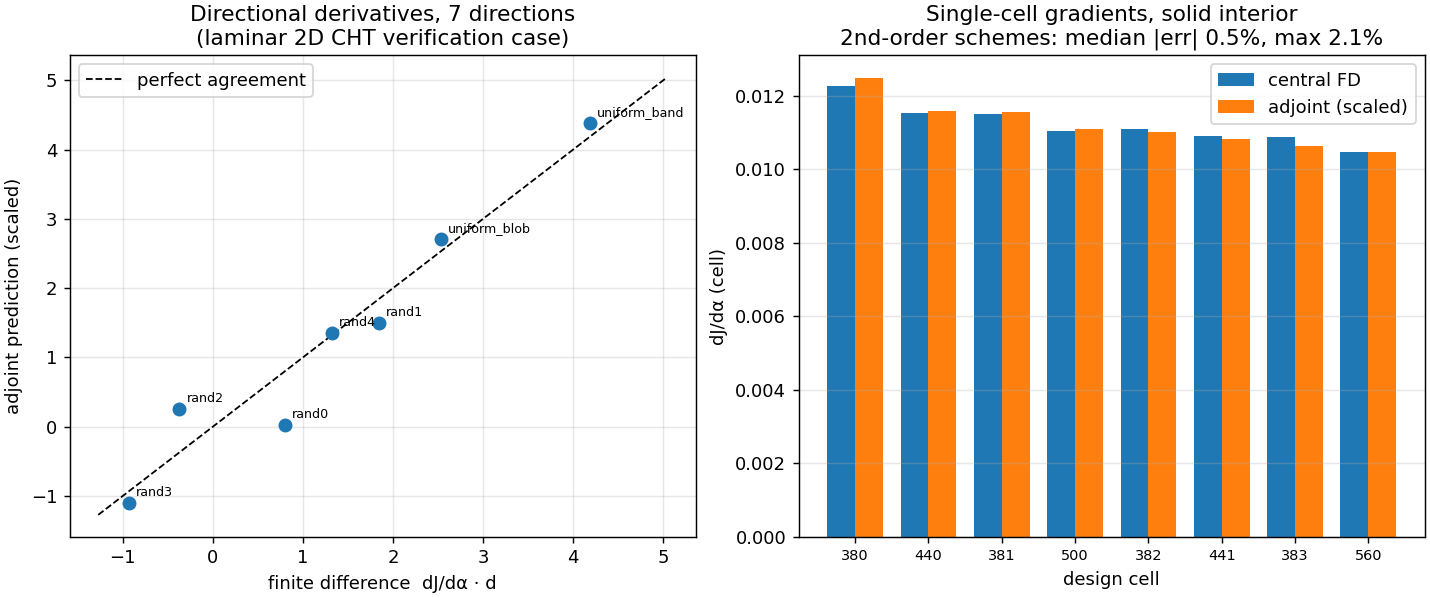
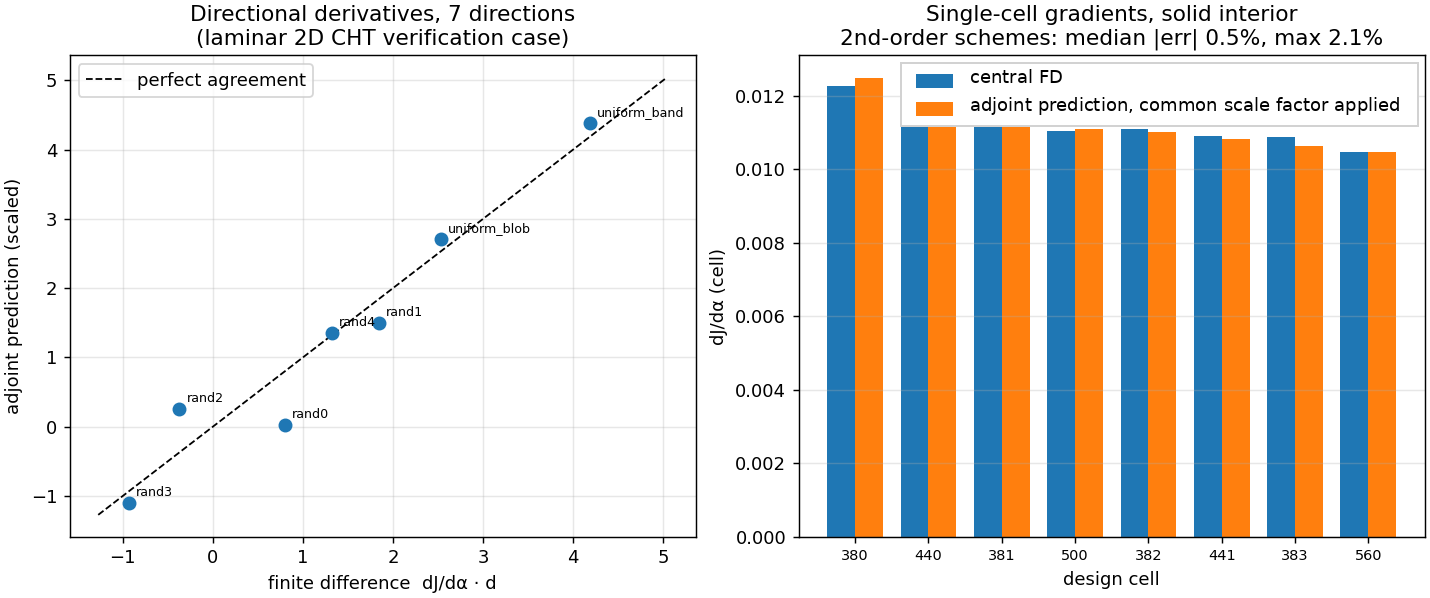
Clarify verification figure captions

Changed region(s): [[0.6154, 0.0903, 1.0, 0.2107]]

diff --git a/README.md b/README.md
@@ -161,6 +161,10 @@ residuals with automated guards:
 
 ![FD verification](docs/figures/fd_verification.png)
 
+One global scale factor is applied consistently to account for the objective
+weight/sign convention; agreement is assessed cell-by-cell after that single
+factor.
+
 - **Single-cell central FD, solid interior, consistent 2nd-order schemes:
   zone-mean objective median |error| 0.5 % (max 2.1 %); patch p-norm
   objective median |error| 0.2 % (max 0.9 %).** Against the derivation